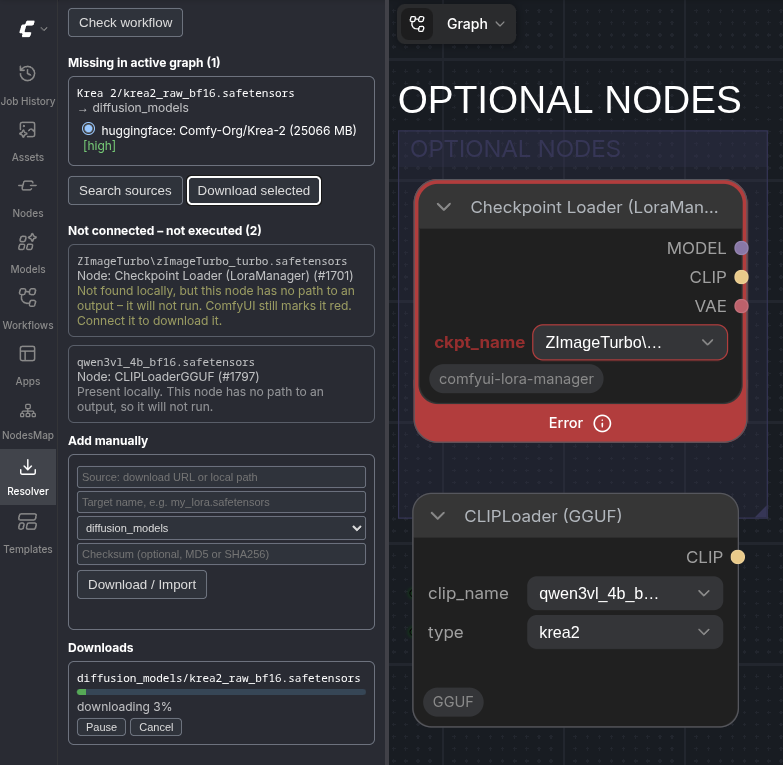
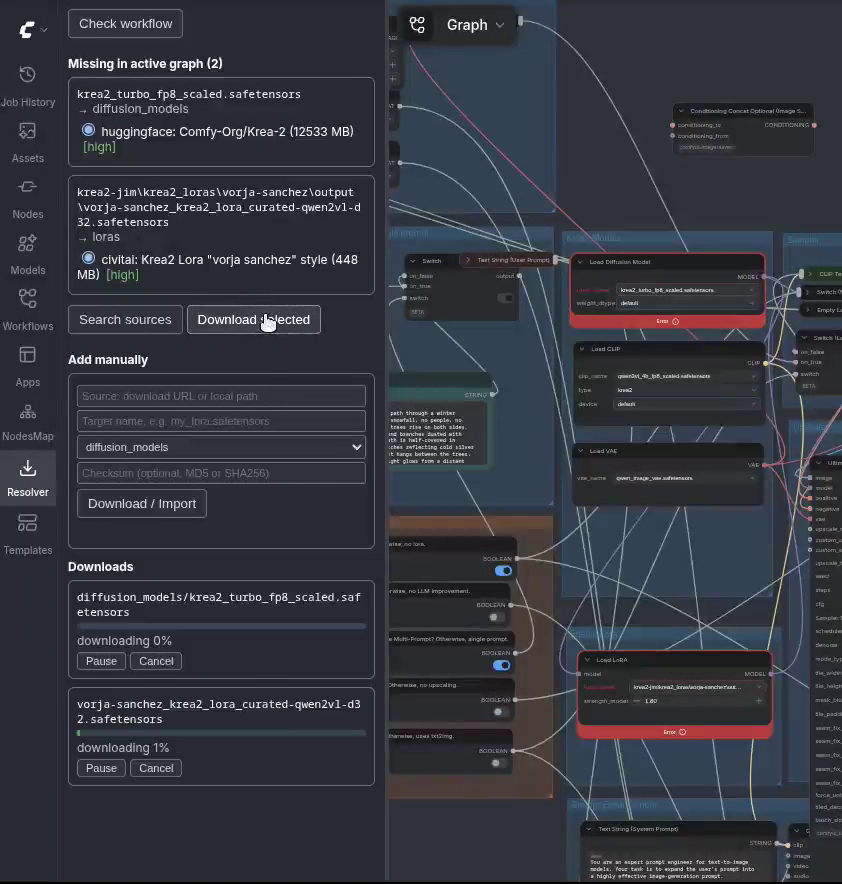
Add demo GIF, replace screenshot
Renames the Screenshot section to Demo and leads with a short recording of
the full flow: scanning the graph, resolving both missing files against
Hugging Face and Civitai, and starting verified downloads. The still now
shows the same run at full resolution.

diff --git a/README.md b/README.md
@@ -10,7 +10,12 @@ what the workflow really needs, distinguishes "missing" from "present but
 just named differently", and verifies every download by checksum before it
 lands in your models folder.
 
-## Screenshot
+## Demo
+
+![Scanning a workflow and resolving two missing models](docs/demo.gif)
+
+Scanning the active graph, resolving each missing file against Hugging Face
+and Civitai, and downloading with checksum verification.
 
 ![Model Resolver panel](docs/screenshot.png)
 
